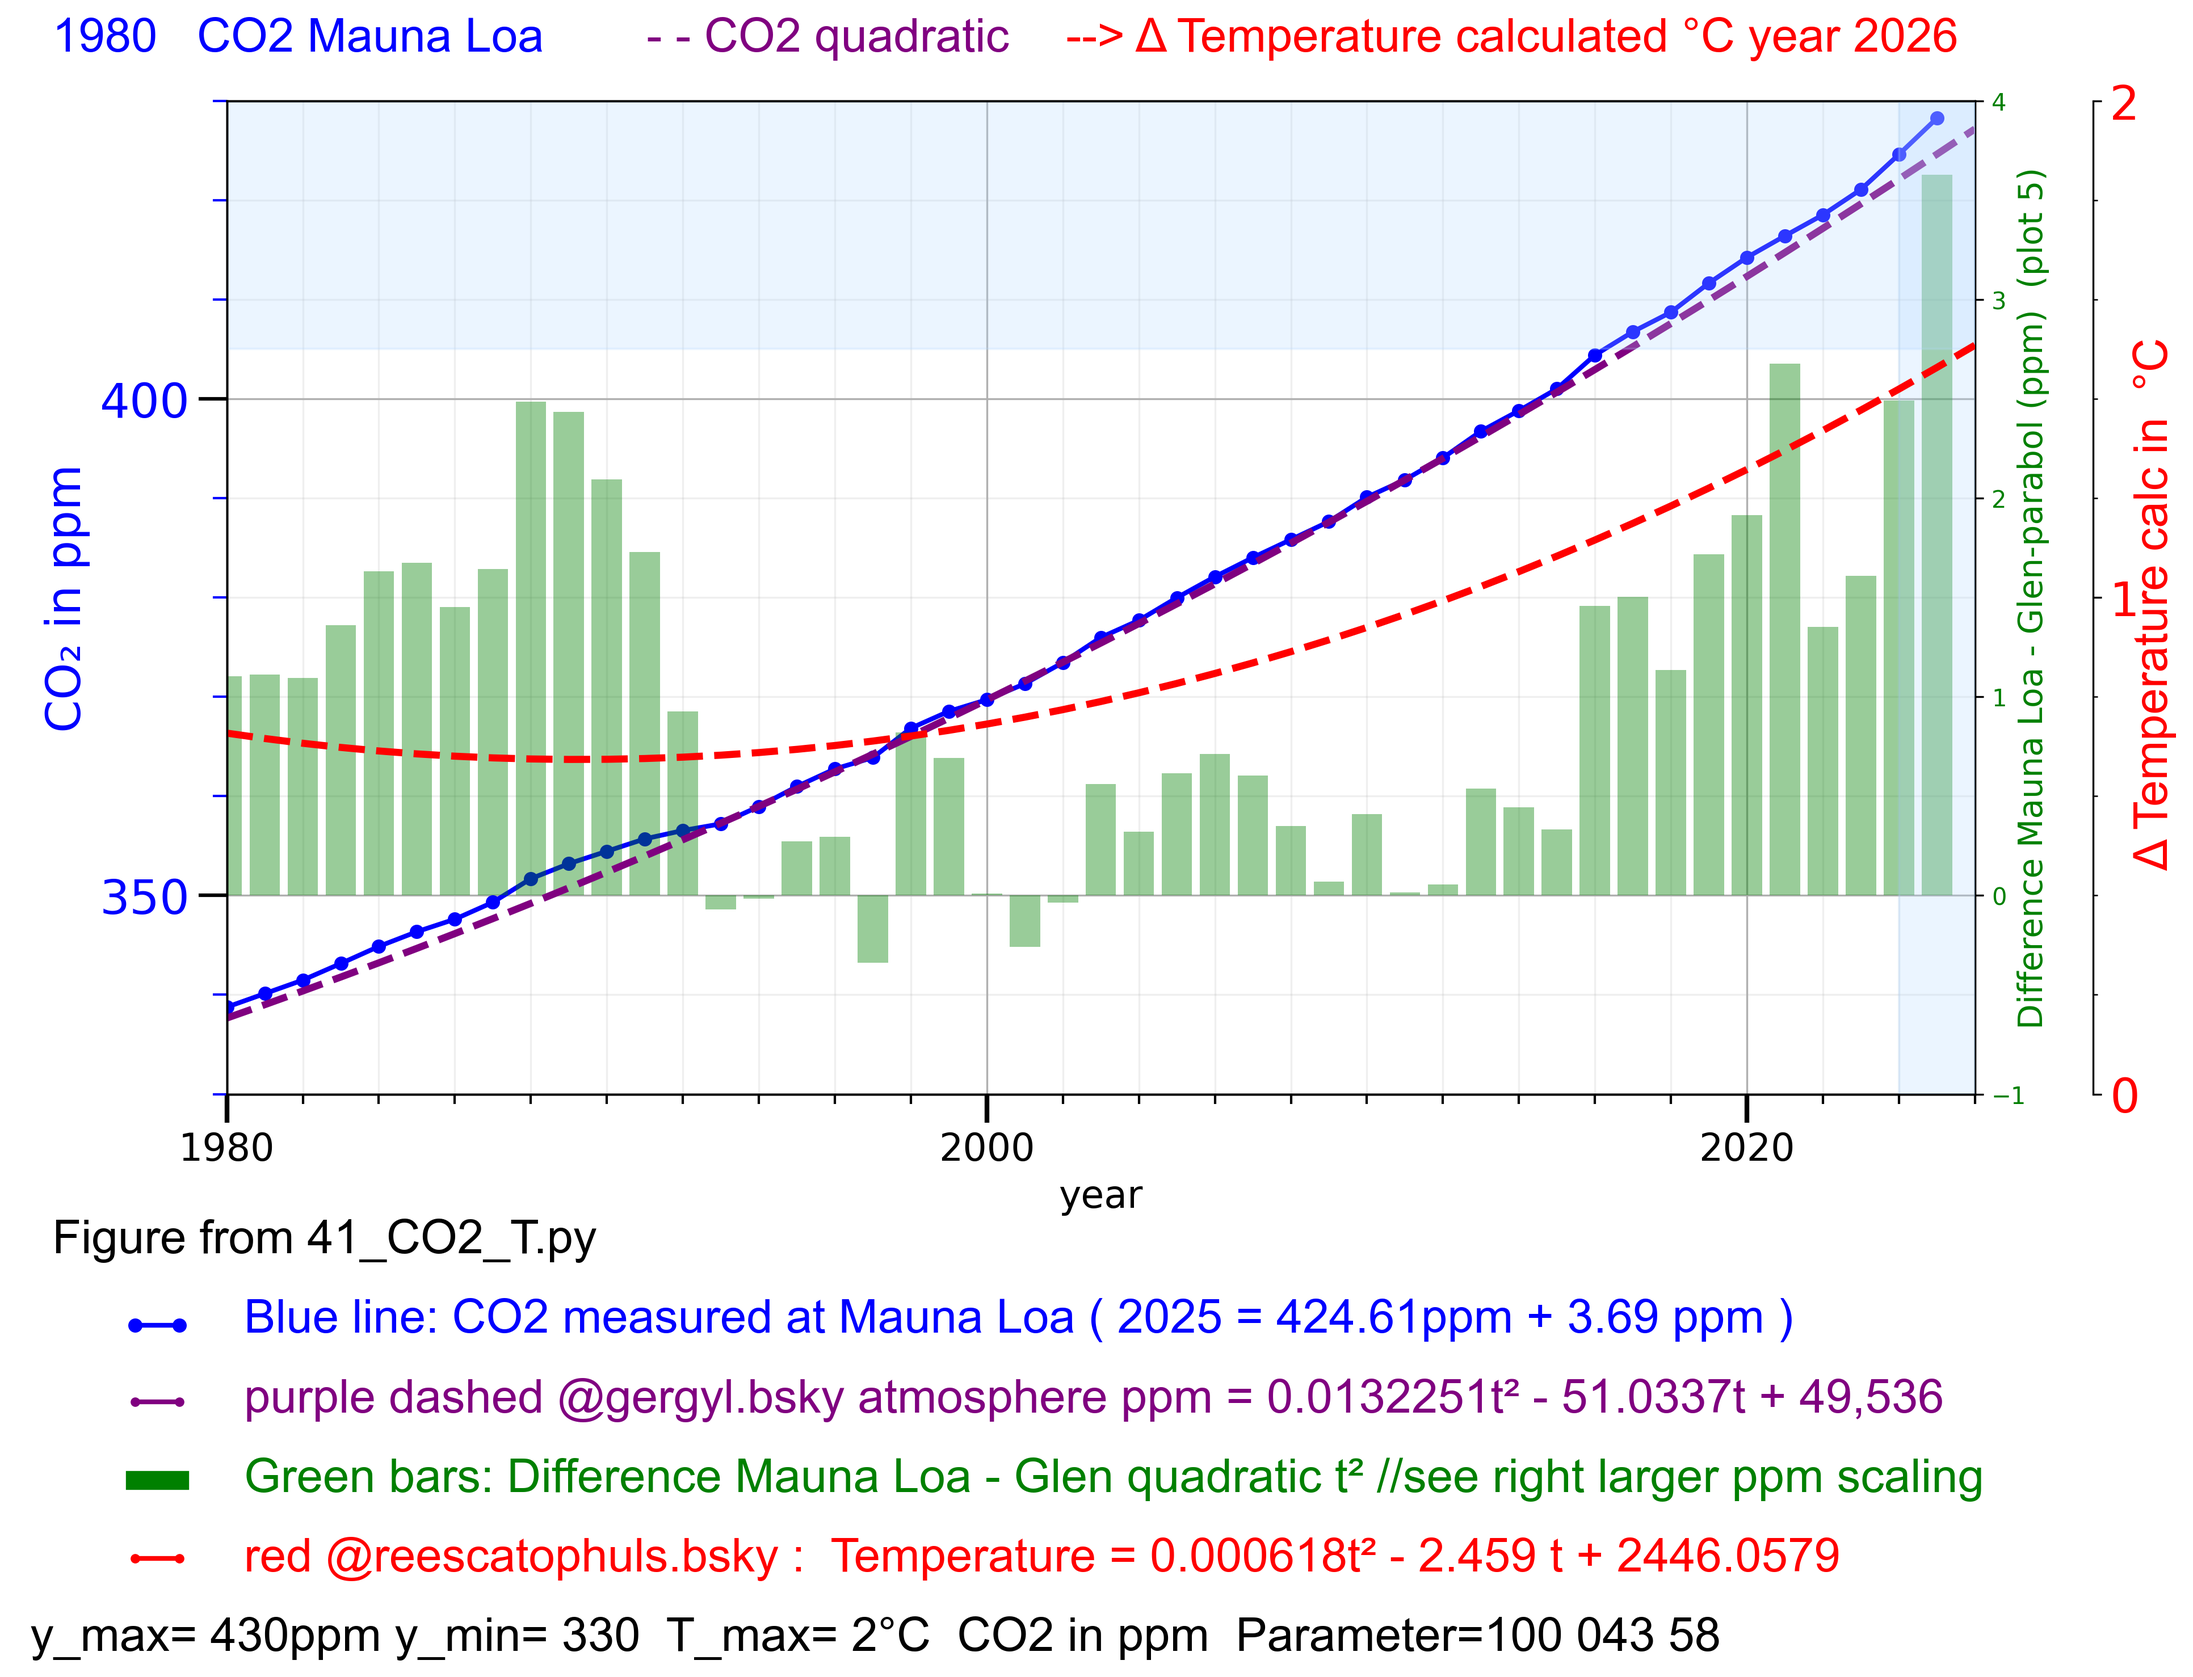
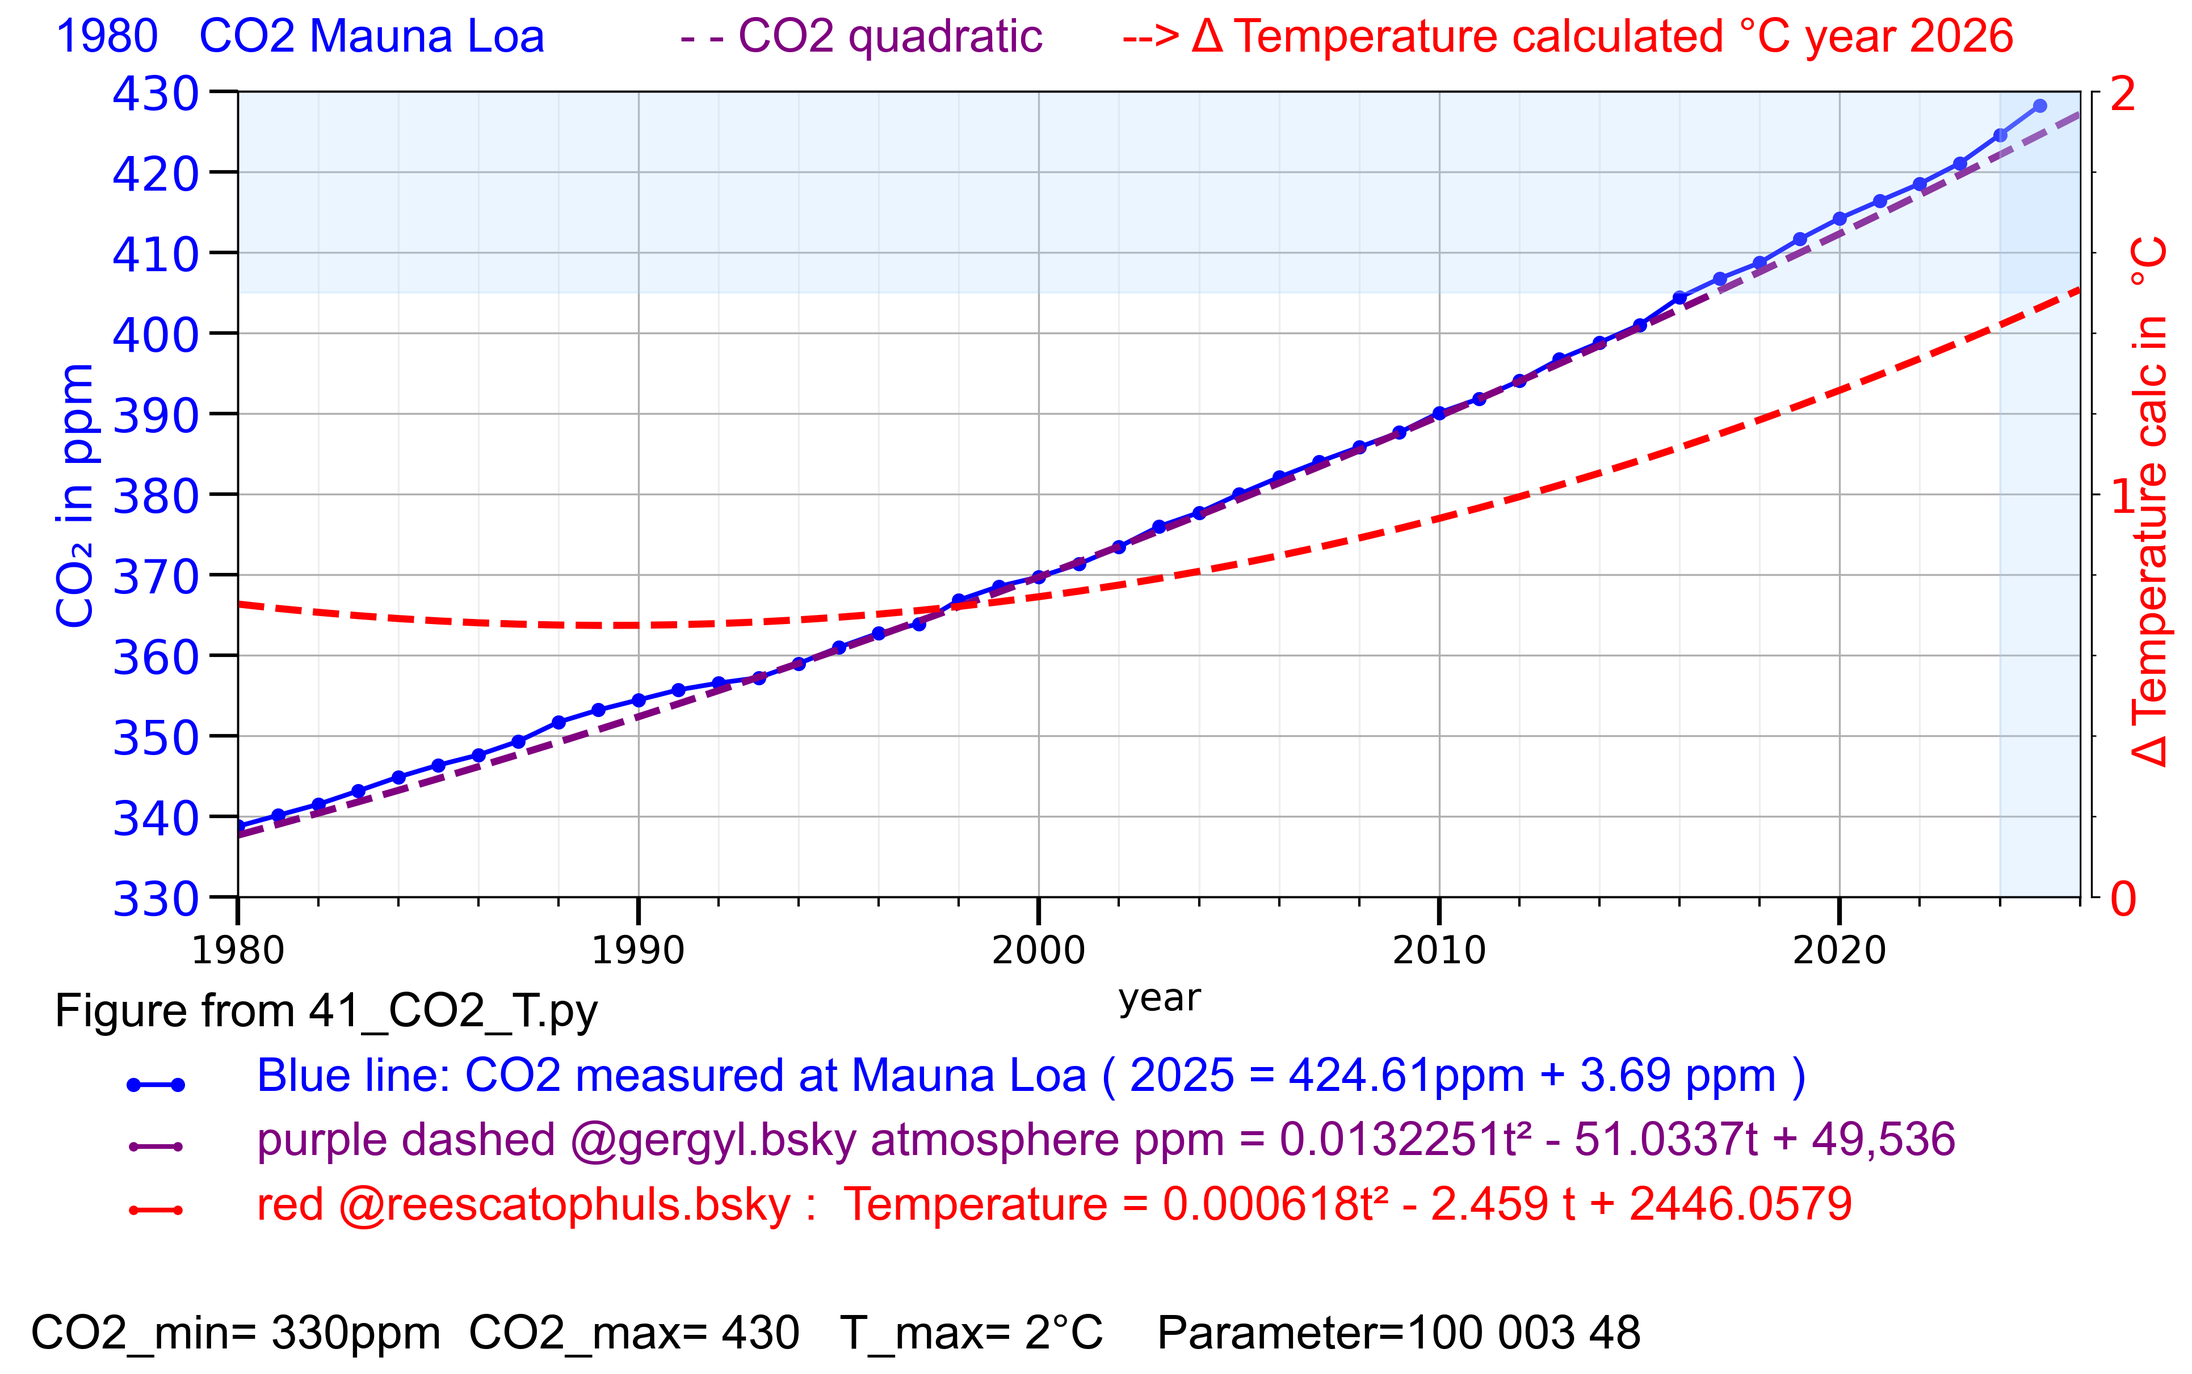
41f2_CO2_T.py plot 7 T as line 4

diff --git a/41_CO2_T.py b/41_CO2_T.py
@@ -1,4 +1,4 @@
-# 41f2_CO2_T.py plot 7 T as line 4
+# 41f3_CO2_T.py plot 7 T as line 4
 # Thomas Boettcher
 # part 0 variables
 # part 1 plot CO2 Mauna Loa
@@ -152,12 +152,7 @@ df = pd.DataFrame({
 # 1.5 add more space below plot
 fig.subplots_adjust(bottom=0.30) # 0.25 = 25% margin at bottom
 
-# fig.text(0.5, 0.05, "This is extra text below the figure",
-# ha="center", va="center", fontsize=12, color="gray")
-# 1.6 Legende oben links
-#ax1.plot(df["Jahr"], df["CO2"], marker="o", markersize=5, color="blue", linewidth=2, label="Mauna Loa CO₂ in ppm 2025 = 424.61 + 3.69 ppm K1")
-# 1.7 print blue Mauna Loa
-
+# 1.6 print blue Mauna Loa
 ax1.plot(df["Jahr"], df["CO2"], marker="o", markersize=5, color="blue", linewidth=2, label=" ")
 ax1.set_xlabel("year", fontsize=16 )
 plt.xticks(fontsize=16)
@@ -171,13 +166,14 @@ ax1.grid(True)
 
 # 1.8 scale the Y value 280 ppm to 440 ppm y_grid_CO2 = 20
 if scale_mode == 10:
+   # y_grid_CO2 = 10
    ax1.set_ylim(y_min, y_max)
    ax1.yaxis.set_major_locator(MultipleLocator(y_grid_CO2))   # Hauptstriche
    ax1.yaxis.set_minor_locator(MultipleLocator(10))   # Nebenstriche
    ax1.tick_params(axis='y', which='major', length=12, width=1.5)
    ax1.tick_params(axis='y', which='minor', length=6,  width=1, color='blue')
    # 1.8 scale the X value time = 20
-   ax1.xaxis.set_major_locator(MultipleLocator(20))   # Hauptstriche
+   ax1.xaxis.set_major_locator(MultipleLocator(10))   # Hauptstriche
    ax1.tick_params(axis='x', which='major', length=12, width=2)
    ax1.xaxis.set_minor_locator(MultipleLocator(2))   # Nebenstriche
    ax1.tick_params(axis='x', which='minor', length=4,  width=1)
@@ -465,10 +461,6 @@ else:
    plt.text(-0.1, 1.05, header, color="black", fontname="Arial", fontsize=18,
             transform=plt.gca().transAxes)
             
-#  Interpret the x and y coordinates in axis-relative units, not data values.
-# transform=plt.gca().transAxes) # x = 0 → left edge of the plot  x = 1 → right edge of the plot
-
-
 # 8.4 legende Mauna Loa blau plot1_Mauna_Loa_
 if plot1_Mauna_Loa_ > 6: # 8.5.1 legende world data plot1_Mauna_Loa_
    K1_text=" Blue: CO2 measured at Mauna Loa ( 2025 = 424.61ppm + 3.69 ppm )"
